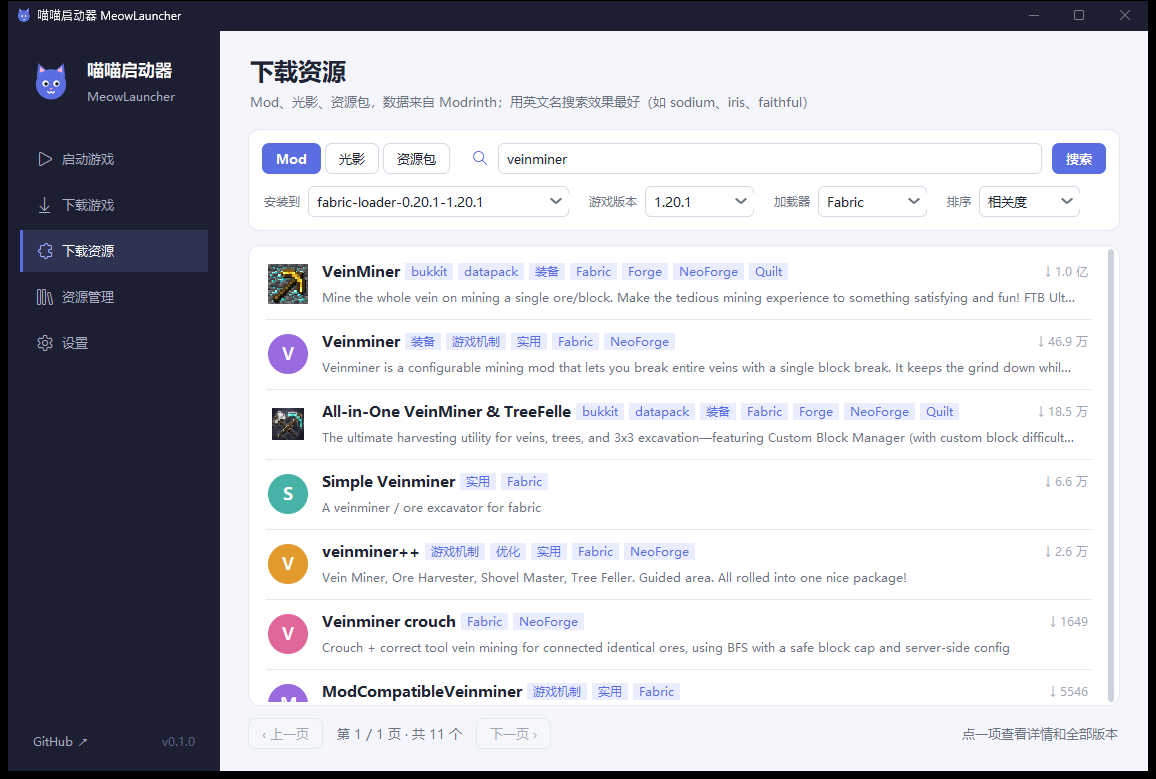
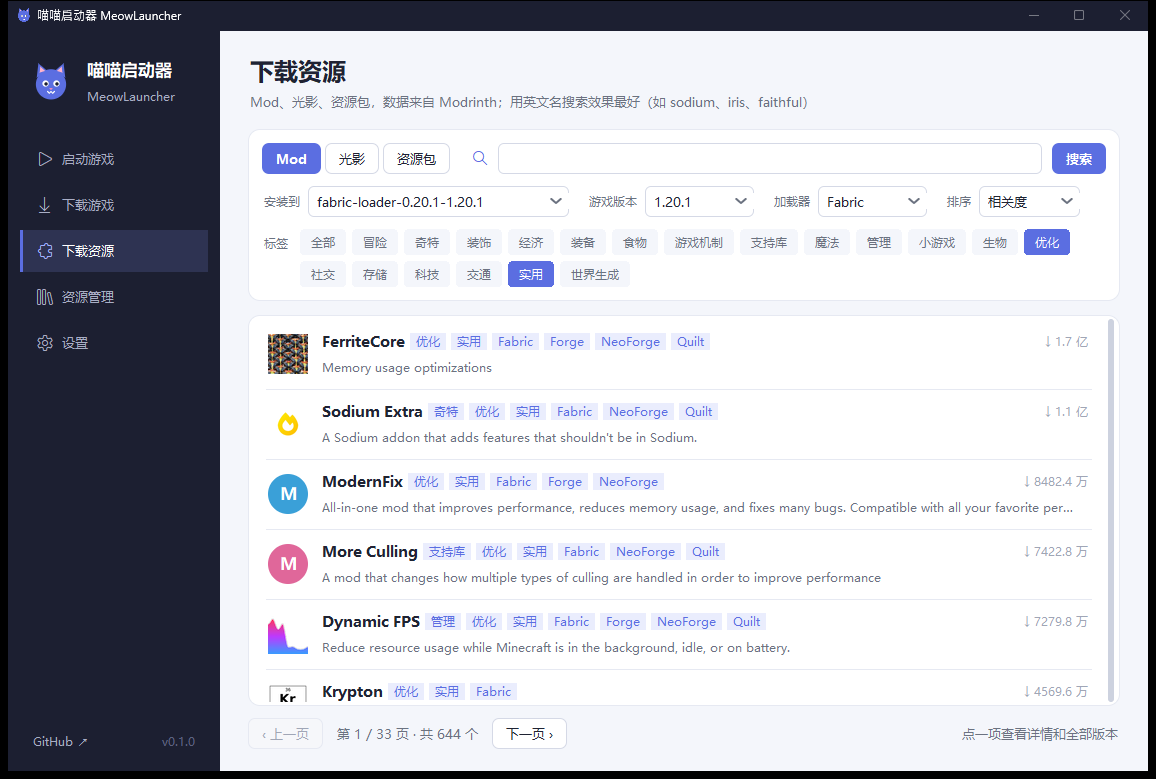
下载资源支持按标签筛选
- 搜索卡片下新增可多选的标签栏：Mod 的优化、实用、科技……，光影的风格 / 特性 / 性能，
  资源包的风格 / 内容 / 分辨率；多选为同时满足，「全部」清空
- 标签来自 Modrinth /tag/category（CurseForge 用 /categories），按类型缓存
- 标签栏画在一个 Canvas 上，放不下自动换行，悬停只改颜色

diff --git a/mcl/gui.py b/mcl/gui.py
@@ -17,7 +17,7 @@ import tkinter.font as tkfont
 from tkinter import filedialog, messagebox, ttk
 
 from . import __version__, auth, game, imaging, java, mods, net, runtime, theme
-from .theme import (ACCENT, ACCENT2, BG, CARD, DANGER, FAMILY, FG, LOG_BG, LOG_FG, MONO, MUTED,
+from .theme import (ACCENT, ACCENT2, ACCENT_HOVER, BG, CARD, DANGER, FAMILY, FG, LOG_BG, LOG_FG, MONO, MUTED,
                     SIDEBAR, SIDEBAR_ACTIVE, SIDEBAR_HOVER, SIDEBAR_TEXT, SUB, SUCCESS)
 
 IS_WINDOWS = sys.platform.startswith("win")
@@ -1757,8 +1757,86 @@ CATEGORY_NAMES = {
     "atmosphere": "氛围", "bloom": "泛光", "shadows": "阴影", "reflections": "反射", "pbr": "PBR",
     "simplistic": "简约", "themed": "主题", "tweaks": "微调", "combat": "战斗", "audio": "音效", "fonts": "字体",
     "gui": "界面", "models": "模型", "core-shaders": "核心着色器", "locale": "语言", "modded": "Mod 适配",
-    "potato": "低配", "low": "低配", "medium": "中配", "high": "高配", "screenshot": "截图",
+    "potato": "土豆配置", "low": "低配", "medium": "中配", "high": "高配", "screenshot": "截图专用",
+    "colored-lighting": "彩色光照", "foliage": "植被摆动", "path-tracing": "路径追踪", "blocks": "方块",
+    "entities": "实体", "environment": "环境", "items": "物品", "8x-": "8x 及以下",
 }
+HEADER_NAMES = {"categories": "分类", "features": "特性", "resolutions": "分辨率", "performance impact": "性能"}
+
+
+def rounded_rect(cv, x0, y0, x1, y1, r, **kw):
+    """Canvas 上的圆角矩形（平滑多边形）。"""
+    pts = [x0 + r, y0, x1 - r, y0, x1, y0, x1, y0 + r, x1, y1 - r, x1, y1, x1 - r, y1,
+           x0 + r, y1, x0, y1, x0, y1 - r, x0, y0 + r, x0, y0]
+    return cv.create_polygon(pts, smooth=True, **kw)
+
+
+class ChipBar(tk.Canvas):
+    """一排可多选的标签（放不下自动换行）。最前面的「全部」用来清空选择。"""
+
+    def __init__(self, master, T, on_change):
+        super().__init__(master, bg=CARD, highlightthickness=0, bd=0, height=T.px(28))
+        self.T, self.on_change = T, on_change
+        self.items, self.selected = [], set()
+        self.font = tkfont.Font(family=FAMILY, size=9)
+        self._width = 0
+        self.bind("<Configure>", lambda e: e.width != self._width and self.redraw())
+
+    def set_items(self, items):
+        """items：[(key, 显示名, 分组)]"""
+        self.items = items
+        self.selected &= {k for k, _, _ in items}
+        self.redraw()
+
+    def _fills(self, key):
+        on = (key in self.selected) if key else not self.selected
+        return (ACCENT, "#ffffff", ACCENT_HOVER) if on else (BG, SUB, theme.PRESS)
+
+    def redraw(self):
+        px = self.T.px
+        self.delete("all")
+        w = self._width = max(self.winfo_width(), 200)
+        h, gap = px(26), px(6)
+        x = y = 0
+        last_group = None
+        for i, (key, label, group) in enumerate([("", "全部", None)] + list(self.items)):
+            if group != last_group and group is not None and len({g for _, _, g in self.items}) > 1:
+                # 有多个分组时，在每组前面加一个小标题（光影：分类 / 特性 / 性能）
+                title = HEADER_NAMES.get(group, group)
+                tw = self.font.measure(title) + px(6)
+                if x + tw > w and x:
+                    x, y = 0, y + h + gap
+                self.create_text(x + px(2), y + h / 2, text=title, anchor="w", font=self.font, fill=MUTED)
+                x += tw + px(4)
+            last_group = group
+            tw = self.font.measure(label) + px(22)
+            if x + tw > w and x:
+                x, y = 0, y + h + gap
+            bg, fg, _ = self._fills(key)
+            tag = f"c{i}"
+            rounded_rect(self, x, y, x + tw, y + h, px(9), fill=bg, outline="", tags=(tag, f"bg{i}"))
+            self.create_text(x + tw / 2, y + h / 2, text=label, font=self.font, fill=fg, tags=(tag, f"t{i}"))
+            self.tag_bind(tag, "<Button-1>", lambda e, k=key: self.toggle(k))
+            self.tag_bind(tag, "<Enter>", lambda e, i=i, k=key: self._hover(i, k, True))
+            self.tag_bind(tag, "<Leave>", lambda e, i=i, k=key: self._hover(i, k, False))
+            x += tw + gap
+        self.configure(height=y + h)
+
+    def _hover(self, i, key, on):
+        # 只改颜色，不重建元素（重建会触发 Leave / Enter 无限循环）
+        bg, _, hover = self._fills(key)
+        self.itemconfigure(f"bg{i}", fill=hover if on else bg)
+        self.configure(cursor="hand2" if on else "")
+
+    def toggle(self, key):
+        if not key:
+            self.selected.clear()
+        elif key in self.selected:
+            self.selected.discard(key)
+        else:
+            self.selected.add(key)
+        self.redraw()
+        self.on_change()
 VERSION_TYPES = {"release": ("Release", "#2fae76"), "beta": ("Beta", "#e39b2d"), "alpha": ("Alpha", "#e5484d")}
 
 
@@ -2365,6 +2443,13 @@ class ModPage(Page):
         self.cb_sort.pack(side="left")
         self.cb_sort.current(0)
         self.cb_sort.bind("<<ComboboxSelected>>", lambda ev: self.search(0))
+        r = self.row(top, pady=(px(12), 0))
+        ttk.Label(r, text="标签", style="CardSub.TLabel").pack(side="left", anchor="n", padx=(0, px(10)),
+                                                               pady=(px(4), 0))
+        self.chips = ChipBar(r, self.T, lambda: self.search(0))
+        self.chips.pack(side="left", fill="x", expand=True)
+        self._cats_token = 0
+        self._load_categories()
 
         bottom = ttk.Frame(self.list_view)
         bottom.pack(side="bottom", fill="x", pady=(px(12), 0))
@@ -2413,7 +2498,20 @@ class ModPage(Page):
         else:
             self.loader_box.pack_forget()
         self.back()
+        self._load_categories()
         self.search(0)
+
+    def _load_categories(self):
+        """换资源类型 / 来源时换一套标签（后台获取，有缓存）。"""
+        self._cats_token += 1
+        token, kind, source = self._cats_token, self.kind, self.source
+        self.chips.selected.clear()
+        self.chips.set_items([])
+
+        def ok(cats):
+            if token == self._cats_token:
+                self.chips.set_items([(k, CATEGORY_NAMES.get(name, name), group) for k, name, group in cats])
+        self.app.bg(lambda: mods.categories(kind, source), ok, lambda e: None)
 
     def refresh_versions(self, select=None):
         vs = self.app.gd.list_versions()
@@ -2470,13 +2568,14 @@ class ModPage(Page):
         def err(e):
             if token == self._search_token:
                 self._ov.show_message(f"搜索失败：{e}")
-        source = self.source
+        source, cats = self.source, sorted(self.chips.selected)
         self.app.bg(lambda: mods.search(q, gv, loader, sort, page * mods.PAGE_SIZE, project_type=kind,
-                                        source=source), ok, err)
+                                        source=source, categories=cats), ok, err)
 
     def _set_source(self):
         self.source = ["modrinth", "curseforge"][self.cb_source.current()]
         self.back()
+        self._load_categories()
         self.search(0)
 
 

diff --git a/mcl/mods.py b/mcl/mods.py
@@ -20,19 +20,47 @@ def _get(path, **params):
 FOLDERS = {"mod": "mods", "shader": "shaderpacks", "resourcepack": "resourcepacks"}
 
 
+_HEADER_ORDER = {"categories": 0, "features": 1, "resolutions": 2, "performance impact": 3}
+_categories_cache = {}
+
+
+def categories(project_type="mod", source="modrinth"):
+    """可用来筛选的标签：[(key, 名称, 分组)]。分组：categories / features / resolutions / performance impact。"""
+    key = (project_type, source)
+    if key in _categories_cache:
+        return _categories_cache[key]
+    if source == "curseforge":
+        data = _cf("/categories", {"gameId": CF_GAME, "classId": CF_CLASS[project_type]})["data"]
+        out = [(str(c["id"]), c["name"], "categories") for c in data if not c.get("isClass")]
+    else:
+        out = [(c["name"], c["name"], c["header"]) for c in _get("/tag/category")
+               if c["project_type"] == project_type]
+
+        def order(item):
+            nums = re.findall(r"\d+", item[1])
+            # 分辨率按数字从小到大（8x- < 16x < … < 512x+），其余按名字
+            return (_HEADER_ORDER.get(item[2], 9), int(nums[0]) if item[2] == "resolutions" and nums else 0, item[1])
+        out.sort(key=order)
+    _categories_cache[key] = out
+    return out
+
+
 def search(query="", game_version=None, loader=None, sort="relevance", offset=0, limit=PAGE_SIZE,
-           project_type="mod", source="modrinth"):
+           project_type="mod", source="modrinth", categories=()):
     """返回 {'hits': [...], 'total_hits': n, 'offset': n}；project_type: mod / shader / resourcepack
 
+    categories：要同时满足的标签（categories() 返回的 key）。
     source='curseforge' 时走 CurseForge，结果会转换成和 Modrinth 一样的结构。
     """
     if source == "curseforge":
-        return cf_search(query, game_version, loader, sort, offset, limit, project_type)
+        return cf_search(query, game_version, loader, sort, offset, limit, project_type, categories)
     facets = [[f"project_type:{project_type}"]]
     if game_version:
         facets.append([f"versions:{game_version}"])
     if loader:
         facets.append([f"categories:{loader}"])
+    for c in categories:  # 每个标签单独一组 = 同时满足（和 Modrinth 网站一样）
+        facets.append([f"categories:{c}"])
     return _get("/search", query=query or None, facets=json.dumps(facets),
                 index=sort, offset=offset, limit=limit)
 
@@ -128,10 +156,11 @@ def _cf_hit(m):
 
 
 def cf_search(query="", game_version=None, loader=None, sort="relevance", offset=0, limit=PAGE_SIZE,
-              project_type="mod"):
+              project_type="mod", categories=()):
     offset = min(offset, 10000 - limit)  # CurseForge 最多只能翻到第 10000 条
     data = _cf("/mods/search", {
         "gameId": CF_GAME, "classId": CF_CLASS[project_type], "searchFilter": query or None,
+        "categoryIds": json.dumps([int(c) for c in categories][:10]) if categories else None,
         "gameVersion": game_version, "modLoaderType": CF_LOADER.get(loader) if loader else None,
         "sortField": CF_SORT.get(sort, 2), "sortOrder": "desc", "index": offset, "pageSize": limit})
     total = min(data.get("pagination", {}).get("totalCount", 0), 10000)

diff --git a/README.md b/README.md
@@ -24,7 +24,7 @@ Windows 下也可以直接双击 `启动.bat`。
 | --- | --- |
 | 启动游戏 | 多账户（离线 / 微软正版 / 外置登录）、选择版本、内存、自动/手动选择 Java、实时游戏日志；「管理」可以**更换、卸载、加装模组加载器** |
 | 下载游戏 | 列出全部版本（正式版 / 快照 / 远古版，可搜索），像 HMCL 一样**多选**加载器：**Forge / NeoForge / Fabric / Quilt / OptiFine**，冲突的组合会自动禁用 |
-| 下载资源 | 像 HMCL 一样的三级页面：搜索列表（图标、分类、加载器标签）→ 项目详情（推荐版本 + 按 Minecraft 版本分组）→ 下载窗口（**必需依赖自动安装，可选依赖勾选安装**），支持 Mod、光影、资源包，来源为 **Modrinth**（CurseForge 已接入，审核通过后开放），也可以下载到本机目录 |
+| 下载资源 | 像 HMCL 一样的三级页面：搜索列表（图标、分类、加载器标签，可按**标签多选筛选**，如优化 + 实用）→ 项目详情（推荐版本 + 按 Minecraft 版本分组）→ 下载窗口（**必需依赖自动安装，可选依赖勾选安装**），支持 Mod、光影、资源包，来源为 **Modrinth**（CurseForge 已接入，审核通过后开放），也可以下载到本机目录 |
 | 资源管理 | 管理某个版本的 Mod（启用 / 禁用 / 删除）、光影和资源包，支持从本机添加 |
 | 设置 | 游戏目录、下载源（BMCLAPI 镜像 / 官方）、下载线程数、窗口大小、额外 JVM 参数 |
 
